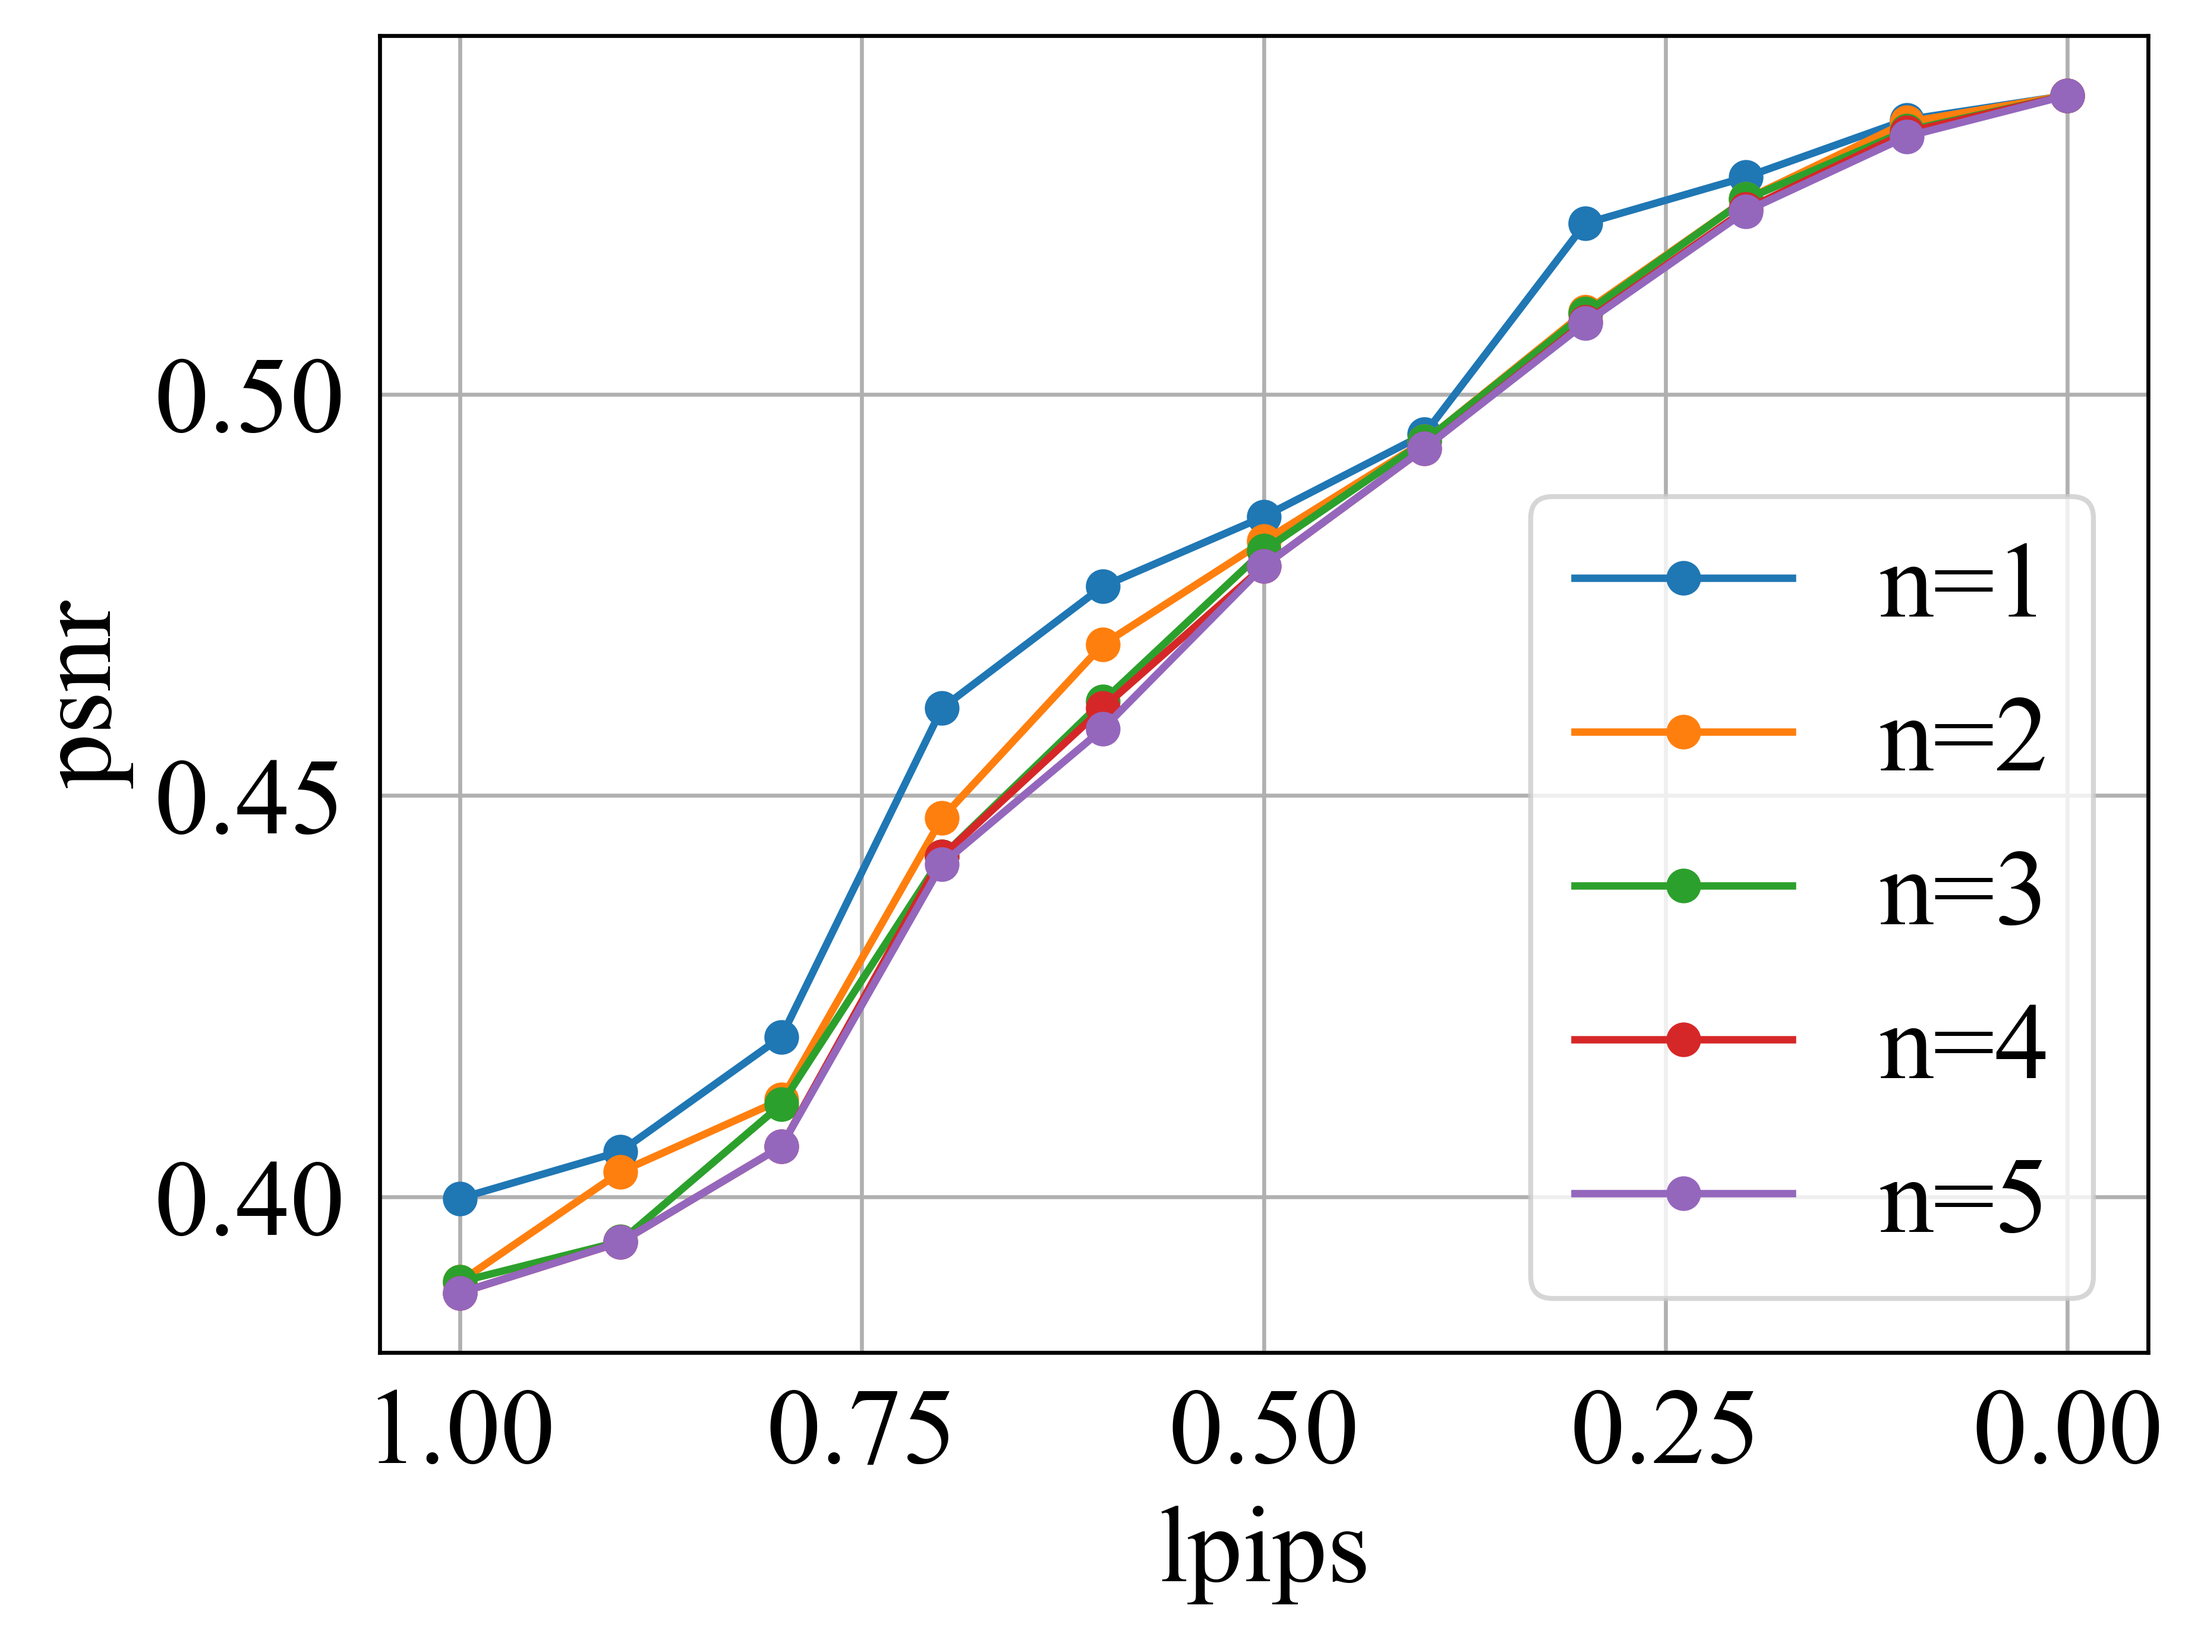
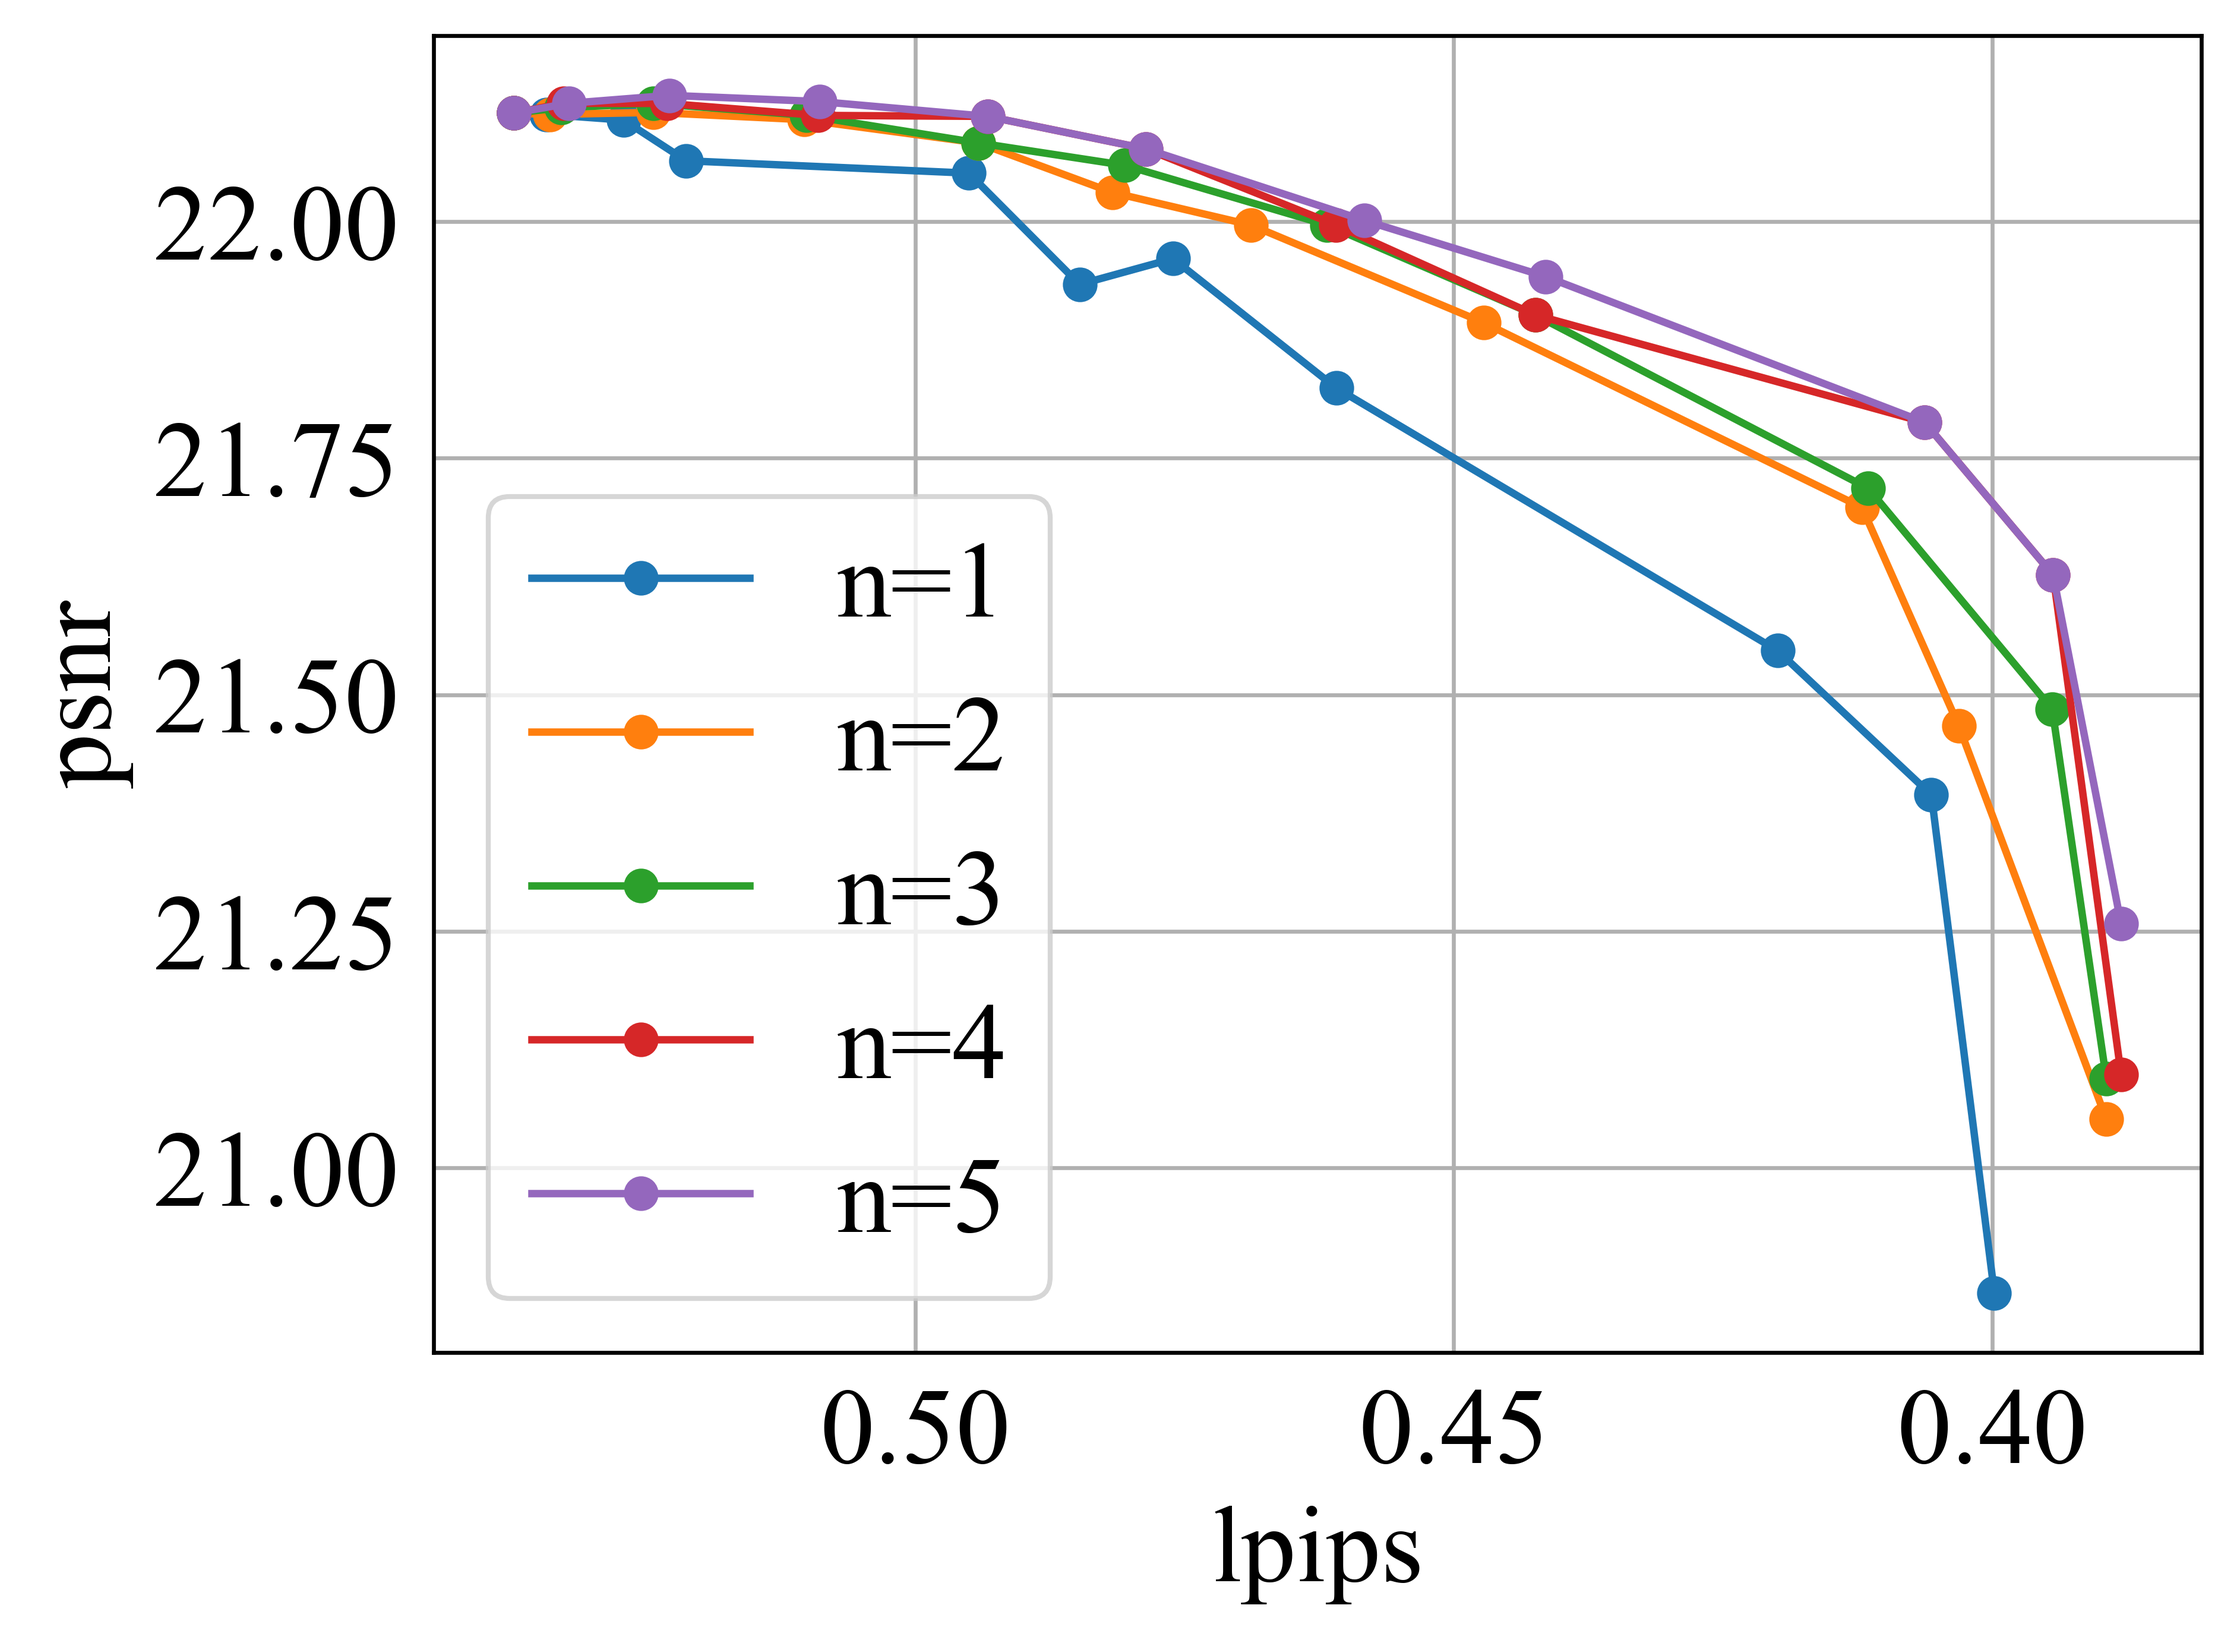
fixed bug in drawing graphs (ALL TESTS PASSING)

diff --git a/code/best_outa_n.py b/code/best_outa_n.py
@@ -145,7 +145,7 @@ class Analysis:
             # temperature vs metrics curves
             generateNCurves('Temperature', meas,
                             save_path_dict['temperature'][meas],
-                            xss_temp,yss, fig_id, legends=legends)
+                            xss_temp, yss, fig_id, legends=legends)
             fig_id += 1
             # metric vs metric curves
             for meas2 in ['psnr','ssim','lpips']:
@@ -153,15 +153,18 @@ class Analysis:
                         (meas == 'lpips' and meas2 == 'ssim') \
                         or (meas == 'psnr' and meas2 == 'ssim'):
                     not_to_inv = (meas =='psnr' and meas2 == 'ssim')
+                    df = dfs[meas2]
+                    yss2 = [df[sample_size].to_numpy() for sample_size in df]
                     generateNCurves(meas, meas2,
                                     save_path_dict[meas][meas2],
-                                    xss_temp, yss, fig_id,
+                                    yss, yss2, fig_id,
                                     legends=legends, inv=(not not_to_inv))
                     fig_id += 1
 
     def readAveragesDFs(self,dfs_paths):
-        return {meas: pd.read_csv(p, index_col=0) for p
-                in dfs_paths for meas in ['psnr', 'ssim','lpips']}
+
+        return {meas: pd.read_csv(p, index_col=0) for meas,p in zip(['psnr', 'ssim','lpips'],
+                dfs_paths)}
 
     def best_out_of_n_analysis(self, n_samples_start, n_samples_end ):
         # initialize dataframes and sums
